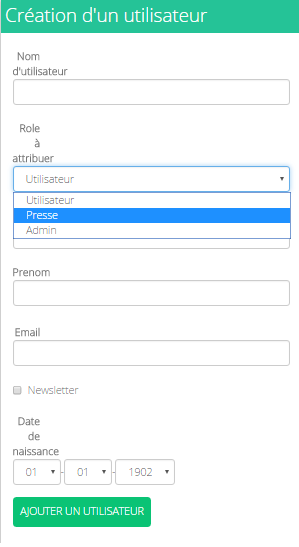
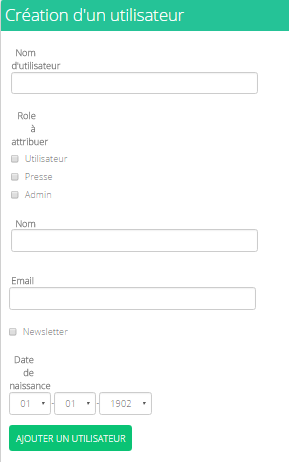
fix userRoles working,ajout doc finder,ajout verif file et article,sinon erreur et retour meme page

diff --git a/EHS/src/AssociationBundle/Controller/DefaultController.php b/EHS/src/AssociationBundle/Controller/DefaultController.php
@@ -332,25 +332,17 @@ class DefaultController extends Controller
 
         $finder = new Finder();
         $finder2=new Finder();
-
+        //ce finder reccupere les fichiers
         $finder->files()->in($this->get('kernel'
             )->getRootDir() . '/../web/public/img/article')->sort($sort);
+        //ce finder reccupere les dossiers
         $finder2->directories()->in($this->get('kernel'
             )->getRootDir() . '/../web/public/img/article')->sort($sort);
         $files=[];
         $dirs=[];
-
+        //on crée deux tableaux pour chacunes des entrées
         foreach ($finder as $file) {
             $files[]=$file;
-            // Dump the absolute path
-            //var_dump($file->getRealPath());
-
-            // Dump the relative path to the file, omitting the filename
-            //var_dump($file->getRelativePath());
-
-            // Dump the relative path to the file
-            //var_dump($file->getRelativePathname());
-
         }
         foreach ($finder2 as $dir) {
             $dirs[]=$dir;
@@ -373,16 +365,31 @@ class DefaultController extends Controller
         $em=$this->getDoctrine()->getManager();
         $repo=$em->getRepository('ArticleBundle:Article');
         $article=$repo->findOneBy(array('imageName'=>$name));
+        //on verifie que l'article existe, sinon on lance une erreur
+        if($article){
+            $file=$this->get('kernel'
+                )->getRootDir() . '/../web/public/img/article/'.$dir.'/'.$name;
+            //on verifie que le fichier existe, sinon on lance une erreur
+            if($file){
+                unlink($file);
+                //var_dump($article);die();
+                $article->setImageName('');
+                $em->persist($article);
+                $em->flush();
+                $this->addFlash('success','L\'image a bien été supprimée !');
+            }else{
+                $this->addFlash('error','L\'image n\'a pas été trouvée !');
+                return $this->finderAction();
+            }
+
+            return $this->finderAction();
+
+        }else{
+            $this->addFlash('error','L\'article n\'existe pas !');
+            return $this->finderAction();
+
+        }
 
 
-        $file=$this->get('kernel'
-        )->getRootDir() . '/../web/public/img/article/'.$dir.'/'.$name;
-        unlink($file);
-        //var_dump($article);die();
-        $article->setImageName('');
-        $em->persist($article);
-        $em->flush();
-        $this->addFlash('success','L\'image a bien été supprimée !');
-        return $this->finderAction();
     }
 }

diff --git a/EHS/src/UserBundle/Controller/UserController.php b/EHS/src/UserBundle/Controller/UserController.php
@@ -180,7 +180,7 @@ class UserController extends Controller
     {
         $deleteForm = $this->createDeleteForm($user);
         $editForm = $this->createForm('UserBundle\Form\UserType', $user);
-        $editForm->remove('userRoles');
+
         $editForm->remove('password');
         $editForm->add('password','text',array('label'=>'(Si vous voulez changer le mot de passe, écrivez en un nouveau.
          Sinon, ne touchez rien !)'));

diff --git a/EHS/src/UserBundle/Form/UserType.php b/EHS/src/UserBundle/Form/UserType.php
@@ -29,7 +29,9 @@ class UserType extends AbstractType
             ->add('userRoles',EntityType::class, array(
                 'class'=>'UserBundle:Role',
                 'choice_label'=>'name',
-                'label'=>'Role à attribuer'
+                'label'=>'Role à attribuer',
+                'multiple'=>true,
+                'expanded'=>true
                 ))
             ->add('nom')
             ->add('prenom')
